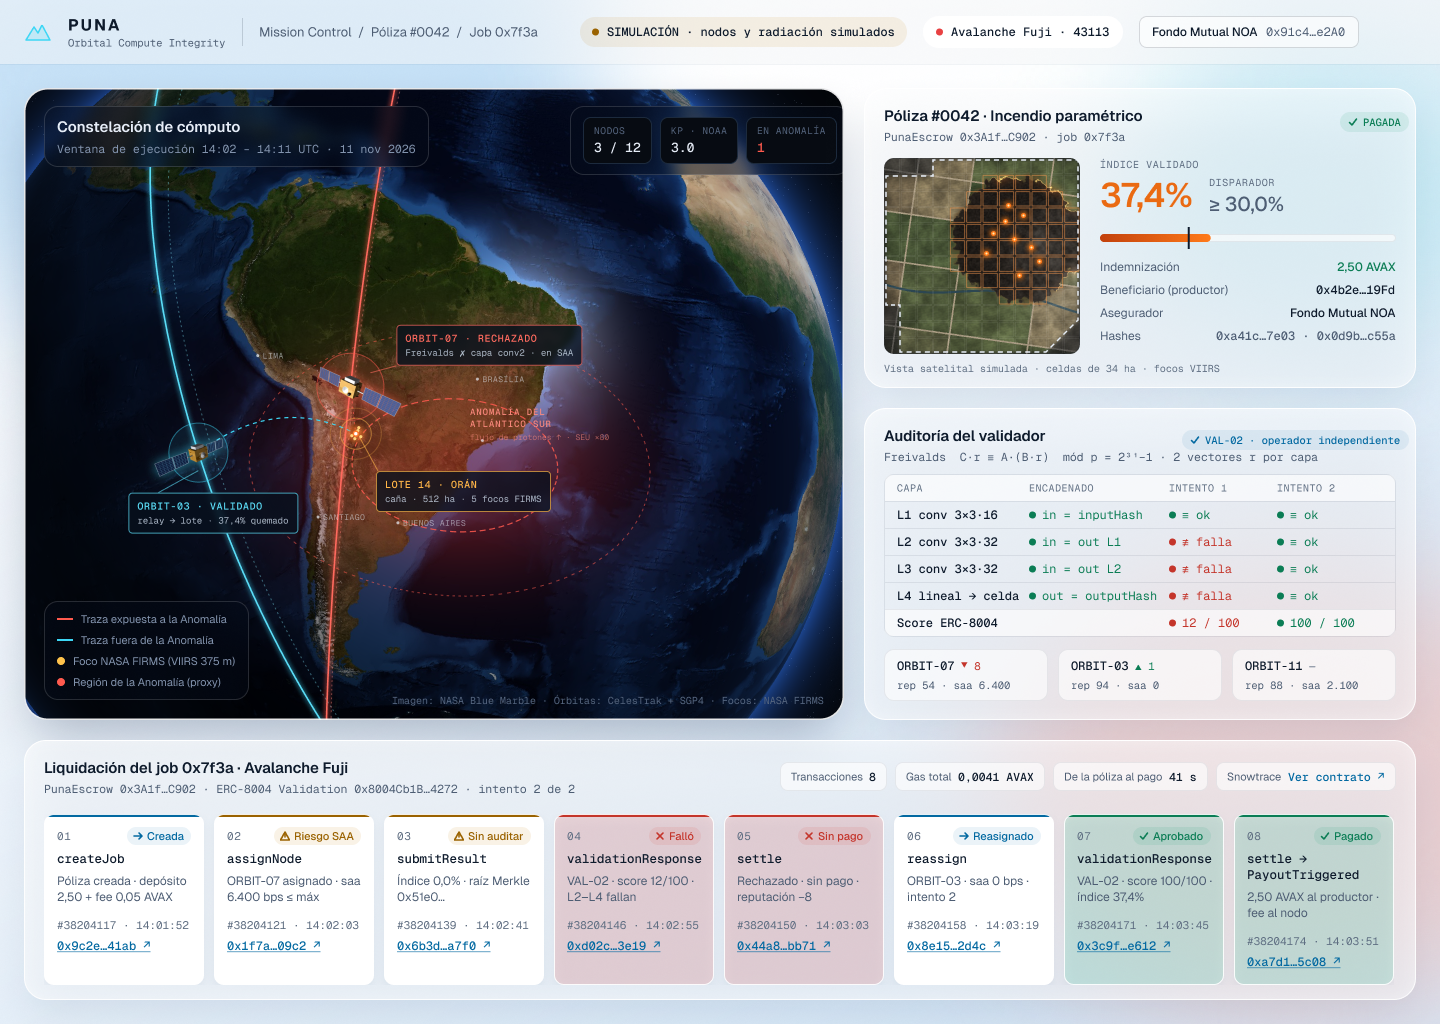
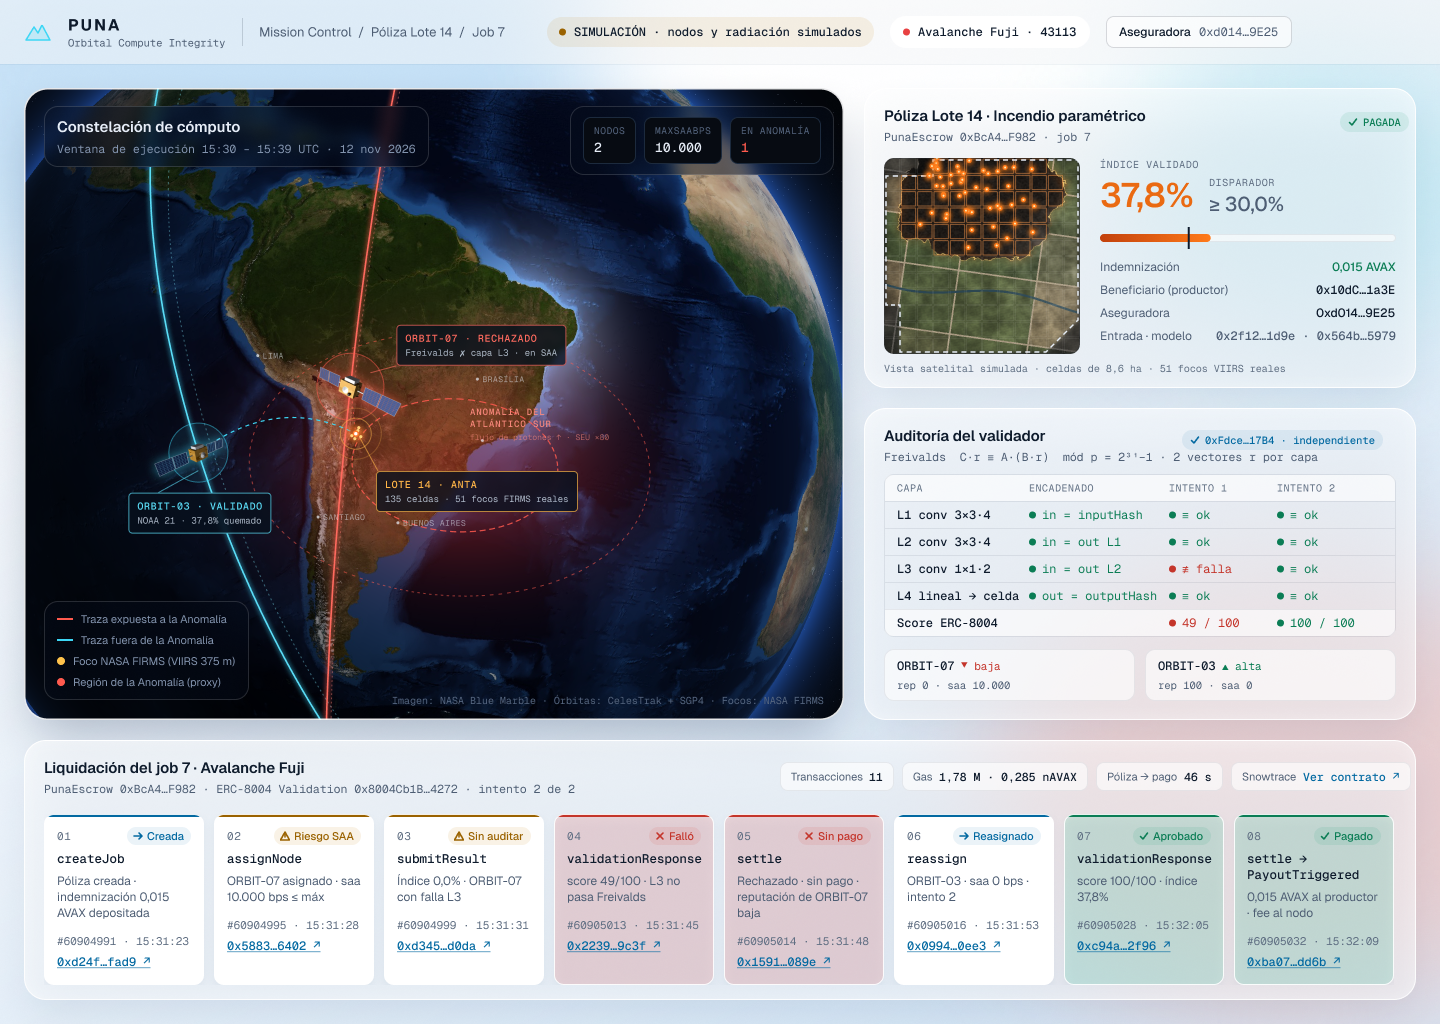
docs: README final, atribución completa y pip install -e funcionando (#23)
README con contrato, txs del job 7, cómo correr todo y real vs simulado. Captura de
Mission Control actualizada con los números reales. pyproject con build-system.

diff --git a/README.md b/README.md
@@ -2,48 +2,106 @@
 
 > Cuando el satélite que decide si te pagan el seguro pasa por la Anomalía del Atlántico Sur, un bit dado vuelta te puede costar la cosecha: PUNA hace que un tercero audite el cálculo y el contrato pague solo si la cuenta es correcta.
 
-![Mission Control](docs/design/mission-control.png)
+![Mission Control: job 7 en Fuji, rechazo de ORBIT-07 y pago tras reasignar a ORBIT-03](docs/design/mission-control.png)
 
 **Argentina Space Hackathon 2026** · Track Avalanche · Agentes × Geoespacial
 
+## Links
+
+| | |
+|---|---|
+| Contrato | **PunaEscrow** [`0xBcA4312A49CD8CED7aC61fd630F114E0DD2CF982`](https://testnet.snowtrace.io/address/0xBcA4312A49CD8CED7aC61fd630F114E0DD2CF982) en Avalanche Fuji (43113), verificado |
+| Demo on-chain | Job 7: [rechazo](https://testnet.snowtrace.io/tx/0x15914187dcdd71b61d6c8687f1ff9137722878a59faf72b29cd473e888dd089e) → [reasignación](https://testnet.snowtrace.io/tx/0x0994322995664806a636988d6702dd1b524570523069e5edb8bff9b0afe30ee3) → [pago](https://testnet.snowtrace.io/tx/0xba0727e9691b788e74a1e1c7054a6613413d537dd43749fa3442973c814ddd6b). Todas las txs en [`docs/txs.md`](docs/txs.md) |
+| Video | [pendiente, #22] |
+| Deck | [pendiente de compartir] |
+| Diseño | [Figma: Mission Control](https://www.figma.com/design/QX6MGCInnAdtuh6Vch931X) |
+
 ## Qué hace
-1. Una cooperativa o fondo mutual crea una póliza paramétrica de incendio para un lote. Para eso llama a `PunaEscrow.createJob` en Avalanche Fuji, con la indemnización y los fees depositados.
-2. Un scheduler orbital asigna un nodo de cómputo según su exposición a la Anomalía del Atlántico Sur (`saaBps`, calculado con TLE de CelesTrak + SGP4).
-3. El nodo corre una CNN entera sobre la grilla del lote (focos NASA FIRMS / VIIRS). Publica el índice, `outputHash` y la raíz Merkle por capa, y pide validación en **ERC-8004**.
-4. Un validador de otro operador verifica cada capa con **Freivalds módulo 2³¹−1** y el encadenado completo, y responde con un score.
-5. `settle` paga al productor si el índice está validado y supera el disparador. Si el validador rechaza, no se mueve plata, baja la reputación y el job se reasigna a otro nodo.
+
+1. **Aseguradora.** Un fondo mutual crea una póliza paramétrica de incendio para el Lote 14 con `PunaEscrow.createJob` y deposita la indemnización y los fees.
+2. **Scheduler orbital.** Mide con TLE de CelesTrak + SGP4 cuánto de la ventana pasa cada nodo dentro de la Anomalía (`saaBps`). Asigna según su política: releva al nodo expuesto o difiere la ventana.
+3. **Nodo.** Corre una CNN entera (int8) sobre la grilla de focos **NASA FIRMS** reales y publica el índice, `outputHash` y la raíz Merkle de las capas. Después pide validación en **ERC-8004**.
+4. **Validador.** Es de otro operador, con proceso y wallet propios. Audita cada capa con **Freivalds módulo 2³¹−1** y el encadenado completo, contra los compromisos on-chain, y responde un score.
+5. **Liquidación.** `settle` paga al productor si el score aprueba y el índice supera el disparador. Si se rechaza, no se mueve plata, baja la reputación del nodo y se reasigna.
+
+**Resultados:**
+- Índice honesto del Lote 14: **37,8 %**, contra un disparador de 30 %.
+- La falla de la demo (1 bit en un peso de L3) da **0 %** y el validador la rechaza con **score 49**.
+- Benchmark: **300/300** fallas detectadas y **0/300** falsos positivos ([`bench/README.md`](bench/README.md)).
 
 ## Correr
+
 ```bash
-cd contracts && forge test           # 13 tests, incluye el guion de la demo y fuzz de conservación de fondos
-pip install -e ".[dev]" && pytest -q # modelo entero, Freivalds, Merkle, inyección de fallas, órbita
+python3 -m venv .venv && .venv/bin/pip install -e ".[dev]"
+.venv/bin/pytest -q                     # 35 tests: modelo entero, Freivalds, Merkle, fallas, órbita, scheduler, validador
+cd contracts && forge test              # 13 tests del escrow, incluido el guion de la demo
 ```
-Copiá `.env.example` a `.env` para deploy y FIRMS. Más detalle en [`CLAUDE.md`](CLAUDE.md) y [`docs/resumen-tecnico.md`](docs/resumen-tecnico.md).
+
+Sin red (datos guardados en `sample-data/`):
+
+```bash
+.venv/bin/python -m node.job --out out/job.npz                           # honesto → 3.777 bps
+.venv/bin/python -m node.job --out out/bad.npz --fault weight:2:2:7      # falla de la demo → 0 bps
+.venv/bin/python -m validator.verify --artifacts out/bad.npz             # score 49: "capa L3 no pasa Freivalds"
+.venv/bin/python -m orbit.saa --tle sample-data/tle/orbit07.tle --start 2026-11-12T15:30:00Z --minutes 9
+.venv/bin/python -m bench.run                                             # 300 inyecciones
+```
+
+En Fuji (copiá `.env.example` a `.env` y cargá las wallets con AVAX de testnet):
+
+```bash
+.venv/bin/python scripts/e2e.py --demo       # rechazo → reassign → Paid, ~11 txs
+.venv/bin/python scripts/e2e.py              # camino feliz
+.venv/bin/python -m validator.agent          # el validador como servicio que escucha ERC-8004
+```
+
+Web (Mission Control):
+
+```bash
+pnpm --dir web install && pnpm --dir web dev   # http://localhost:3000
+```
+
+La web lee datos reales exportados de la cadena. Al abrirse, verifica en vivo contra Fuji que cada transacción exista. Más detalle en [`web/README.md`](web/README.md).
 
 ## Real vs simulado
-| Real | Simulado (y etiquetado) |
+
+| Real | Simulado (y etiquetado en pantalla) |
 |---|---|
-| Órbitas (TLE CelesTrak + SGP4), focos NASA FIRMS, verificación Freivalds, transacciones en Fuji, registros ERC-8004 | Satélites/nodos de cómputo, operadores, radiación (proxy `saaBps`), vista satelital del lote |
-
-## Contrato en Fuji (dirección congelada)
-**PunaEscrow:** [`0xBcA4312A49CD8CED7aC61fd630F114E0DD2CF982`](https://testnet.snowtrace.io/address/0xBcA4312A49CD8CED7aC61fd630F114E0DD2CF982), verificado.
-
-Para correr la demo completa (ORBIT-07 en la Anomalía, con falla, se rechaza; reasigna a ORBIT-03; paga):
-```bash
-.venv/bin/python scripts/e2e.py --demo
-```
-Hashes en [`docs/txs.md`](docs/txs.md).
+| Órbitas de NOAA 20 y 21 (TLE CelesTrak + SGP4) | Que esos satélites sean nodos de cómputo |
+| Focos NASA FIRMS del incendio en Anta, Salta | La falla: un bit inyectado por software |
+| CNN entera, Freivalds, Merkle | Operadores distintos (wallets y procesos separados en una laptop) |
+| PunaEscrow verificado y registros ERC-8004 en Fuji | La radiación: `saaBps` es un proxy de exposición |
+| | La vista satelital del lote (la forma del quemado sí es real) |
 
 ## ERC-8004 en Fuji
-| Registro | Dirección |
-|---|---|
-| Identity | `0x8004A818BFB912233c491871b3d84c89A494BD9e` |
-| Reputation | `0x8004B663056A597Dffe9eCcC1965A193B7388713` |
-| Validation | `0x8004Cb1BF31DAf7788923b405b754f57acEB4272` (confirmado en H0) |
+
+| Registro | Proxy | Estado |
+|---|---|---|
+| Identity | `0x8004A818BFB912233c491871b3d84c89A494BD9e` | ORBIT-07 = agente 300, ORBIT-03 = agente 301 |
+| Reputation | `0x8004B663056A597Dffe9eCcC1965A193B7388713` | El escrow deja feedback en cada `settle` |
+| Validation | `0x8004Cb1BF31DAf7788923b405b754f57acEB4272` | Confirmado en H0 (no figura en el README oficial) |
+
+Firmas verificadas contra los ABIs de Routescan: [`docs/erc8004.md`](docs/erc8004.md).
+
+## Estructura
+
+```
+contracts/   PunaEscrow.sol, interfaz ERC-8004, mocks, tests y deploy (Foundry)
+node/        CNN entera, Merkle por capa, inyección de fallas, publicación de artefactos
+validator/   Freivalds mód p, auditoría completa y agente validador (ERC-8004)
+orbit/       FIRMS → grilla, saaBps y orbitHash, scheduler orbital
+onchain/     web3 + ABIs compartidos por los agentes
+scripts/     smoke test ERC-8004, e2e en Fuji, exportadores para la web
+web/         Mission Control (Next.js + viem)
+bench/       benchmark de inyecciones
+docs/        resumen técnico, diseño, ERC-8004, txs, atribución
+```
 
 ## Límites
-- PUNA prueba que el cálculo es correcto, no que la imagen de entrada sea auténtica.
-- Hoy el índice se puede calcular en tierra. Cuando nazca en órbita, sin PUNA no hay forma de auditarlo.
-- Somos complementarios a la detección de bit-flips (p. ej. Flipless): verificación por terceros, pago on-chain y ubicación orbital.
 
-Atribución de datos e imágenes en [`docs/ATTRIBUTION.md`](docs/ATTRIBUTION.md).
+- PUNA prueba que el cálculo es correcto, no que la imagen de entrada sea auténtica.
+- Hoy el índice se puede calcular en tierra. Cuando nazca en órbita y baje solo el resultado, sin PUNA no hay forma de auditarlo.
+- Freivalds es probabilístico: una matriz alterada pasa con probabilidad ≤ 1/p² por capa.
+- Somos complementarios a la detección de bit-flips (p. ej. Flipless). Lo que agregamos: verificación por terceros, pago on-chain y ubicación orbital.
+
+Atribución de datos, imágenes y software en [`docs/ATTRIBUTION.md`](docs/ATTRIBUTION.md).

diff --git a/docs/ATTRIBUTION.md b/docs/ATTRIBUTION.md
@@ -1,9 +1,35 @@
 # Atribución
 
+## Datos e imágenes
+
 - **NASA Blue Marble** (textura del globo): NASA Earth Observatory / NASA Visible Earth. Dominio público.
-- **NASA FIRMS** (focos de calor VIIRS/MODIS): NASA LANCE FIRMS, https://firms.modaps.eosdis.nasa.gov — citar según sus términos.
-  Lote 14 = incendio real en Anta, Salta: VIIRS 375 m NRT (NOAA-20 y NOAA-21), 147 detecciones del 31/10 al 11/11/2026 en `sample-data/firms_anta.csv`. "We acknowledge the use of data and imagery from LANCE FIRMS operated by NASA's Earth Science Data and Information System (ESDIS) with funding provided by NASA Headquarters."
-- **CelesTrak** (TLE / GP): https://celestrak.org
-- **ERC-8004** registros: https://github.com/erc-8004/erc-8004-contracts
-- Renders de satélites y vista satelital del lote: generados proceduralmente por el equipo (`docs/design/assets/`). La vista del lote es **simulada**.
-- Datos de Orbview-2 sobre SEU en la Anomalía del Atlántico Sur: NASA (ver fuentes en `docs/resumen-tecnico.md`).
+- **NASA FIRMS** (focos de calor VIIRS/MODIS): NASA LANCE FIRMS, https://firms.modaps.eosdis.nasa.gov.
+  - El Lote 14 es un incendio real en Anta, Salta.
+  - Datos: VIIRS 375 m NRT (NOAA-20 y NOAA-21), 147 detecciones del 31/10 al 11/11/2026, en `sample-data/firms_anta.csv`.
+  - "We acknowledge the use of data and imagery from LANCE FIRMS operated by NASA's Earth Science Data and Information System (ESDIS) with funding provided by NASA Headquarters."
+- **CelesTrak** (TLE / GP): https://celestrak.org. Usamos NOAA 20 (NORAD 43013) y NOAA 21 (NORAD 54234), época 26315. Las órbitas son reales; usarlos como nodos de cómputo es simulado.
+- **Datos de Orbview-2** sobre SEU en la Anomalía del Atlántico Sur: NASA NEPP (ver fuentes en `docs/resumen-tecnico.md`).
+- **Renders del equipo** (`docs/design/assets/`), generados proceduralmente:
+  - satélites;
+  - vista satelital del lote: la textura es **simulada**, pero la forma del quemado sale de las celdas reales.
+
+## Protocolos y contratos
+
+- **ERC-8004** (Identity, Reputation, Validation): https://github.com/erc-8004/erc-8004-contracts. Usamos los despliegues en Avalanche Fuji.
+- **Avalanche Fuji** y explorador **Snowtrace / Routescan**.
+
+## Software
+
+- Foundry y forge-std (MIT/Apache-2.0)
+- web3.py (MIT)
+- sgp4 (MIT)
+- NumPy (BSD)
+- Matplotlib (PSF-based)
+- python-dotenv (BSD)
+- Next.js (MIT), React (MIT), Tailwind CSS (MIT), viem (MIT)
+- Tipografías **Geist** y **Geist Mono** (Vercel, SIL Open Font License 1.1)
+
+## Referencias
+
+- **Freivalds, R.** (1977), verificación probabilística de productos de matrices.
+- **Flipless** (https://flipless.space), citado como trabajo complementario de detección de bit-flips.
